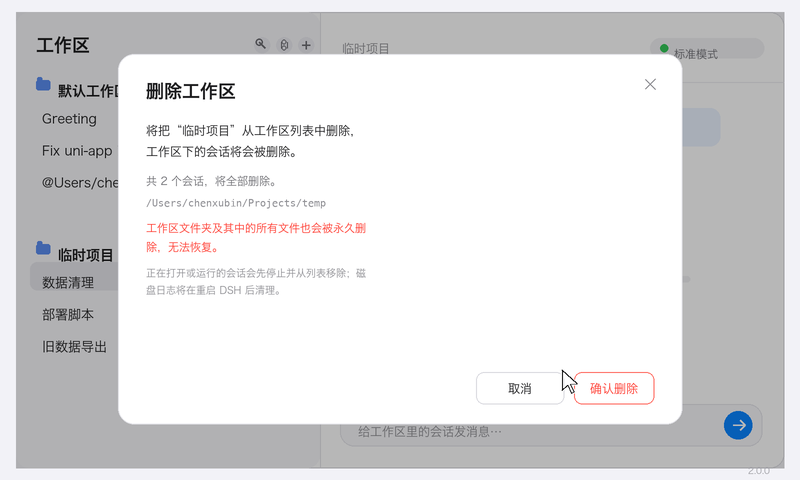
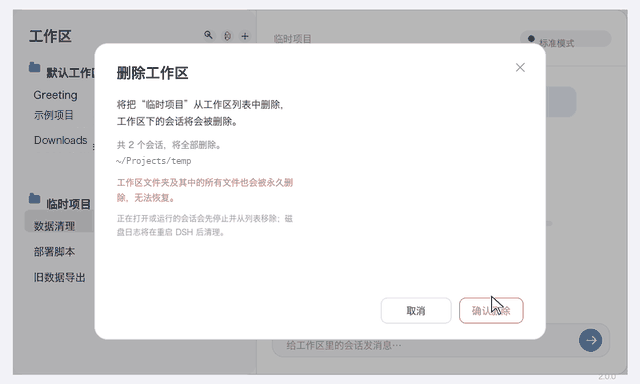
docs: remove personal and stock data from demo

diff --git a/README.md b/README.md
@@ -2,9 +2,11 @@
 
 一个用于 **DeepSeek Harness（DSH）** 的工作区 / 会话管理插件：在会话和工作区的 `…` / 右键菜单里直接删除，也可以在设置页里集中管理。
 
-![删除会话与工作区操作演示](https://raw.githubusercontent.com/chenxubin2016/dsh-workspace-curator/main/docs/demo.gif)
+![删除会话与工作区操作演示](https://raw.githubusercontent.com/chenxubin2016/dsh-workspace-curator/main/docs/demo.gif?v=2)
 
 > 上图为操作示意：① 会话行 `…` →「删除会话」；② 工作区行 `…` →「删除工作区」。实际界面以当前 DSH 版本为准。
+>
+> 动画中的会话、项目名称与路径均为虚构示例。
 
 ## 2.0.0 更新内容
 

diff --git a/docs/DETAIL.zh.md b/docs/DETAIL.zh.md
@@ -1,1 +1,1 @@
-![操作演示：从会话行菜单删除会话，再从工作区菜单删除工作区及其文件夹](demo.gif)
+![操作演示：从会话行菜单删除会话，再从工作区菜单删除工作区及其文件夹](demo.gif?v=2)

diff --git a/docs/DETAIL.md b/docs/DETAIL.md
@@ -1,1 +1,1 @@
-![Animated demo: delete a session from its row menu, then delete a workspace and its folder](demo.gif)
+![Animated demo: delete a session from its row menu, then delete a workspace and its folder](demo.gif?v=2)
